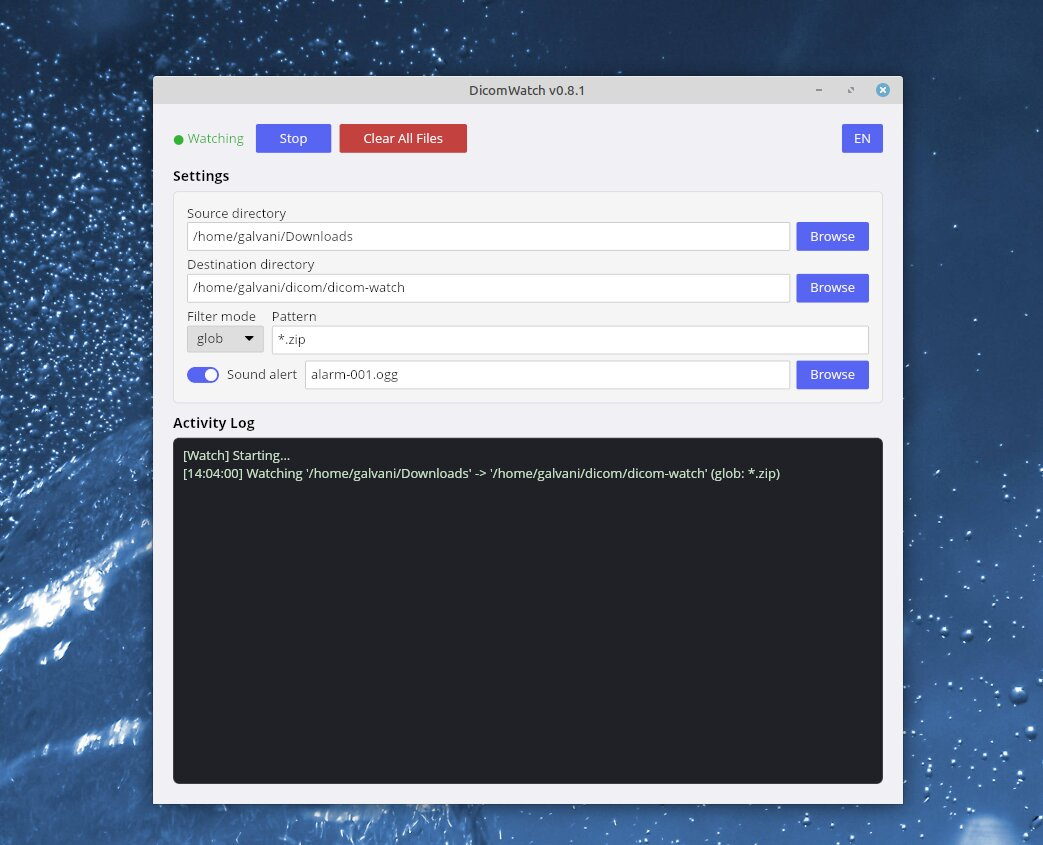
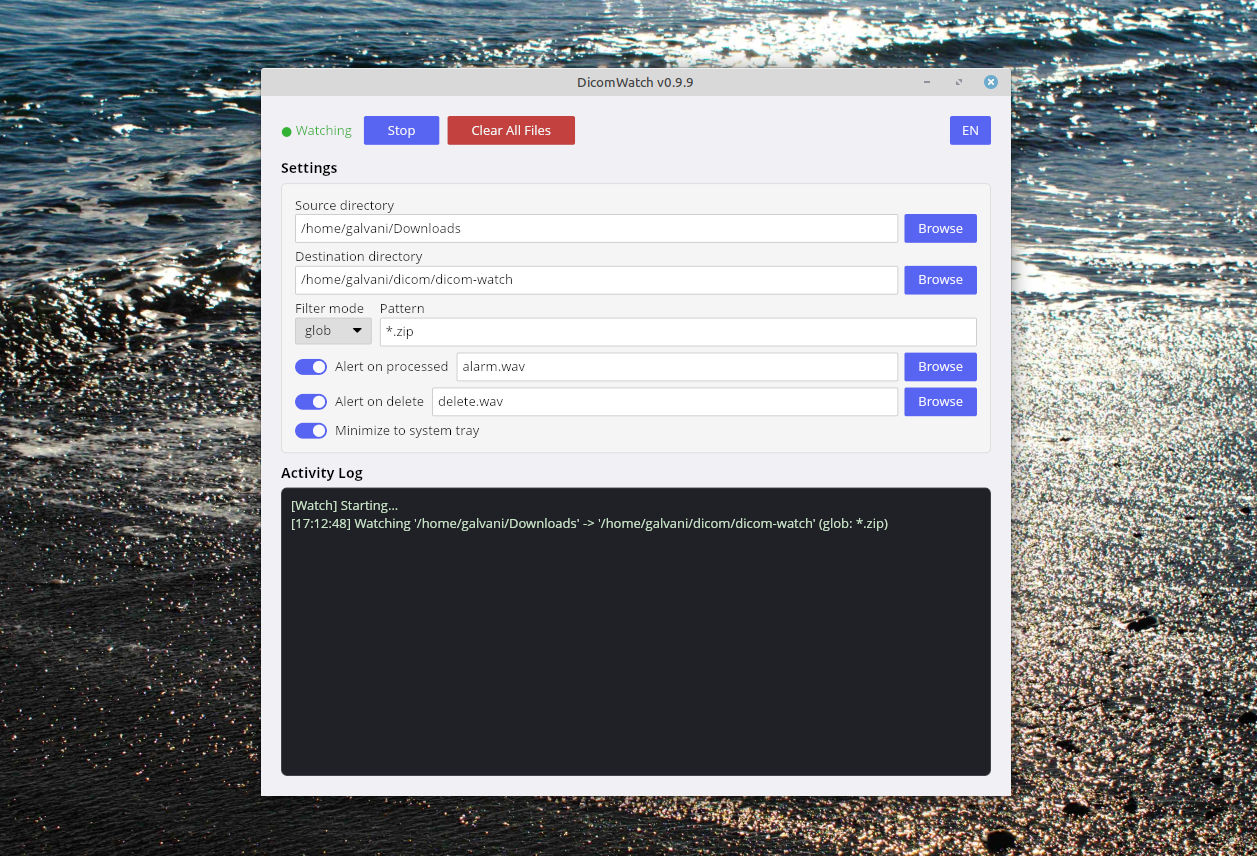
fix: update README and screenshot (0.9.10 -> 0.9.11)

diff --git a/README.md b/README.md
@@ -5,7 +5,7 @@ and notifies you — so you focus on reading studies, not managing files.
 
 Supports Linux (X11/Wayland) and Windows 10/11.
 
-![DicomWatch screenshot](assets/screenshot-001.jpg)
+![DicomWatch screenshot](assets/screenshot-001.webp)
 
 ## What it is
 
